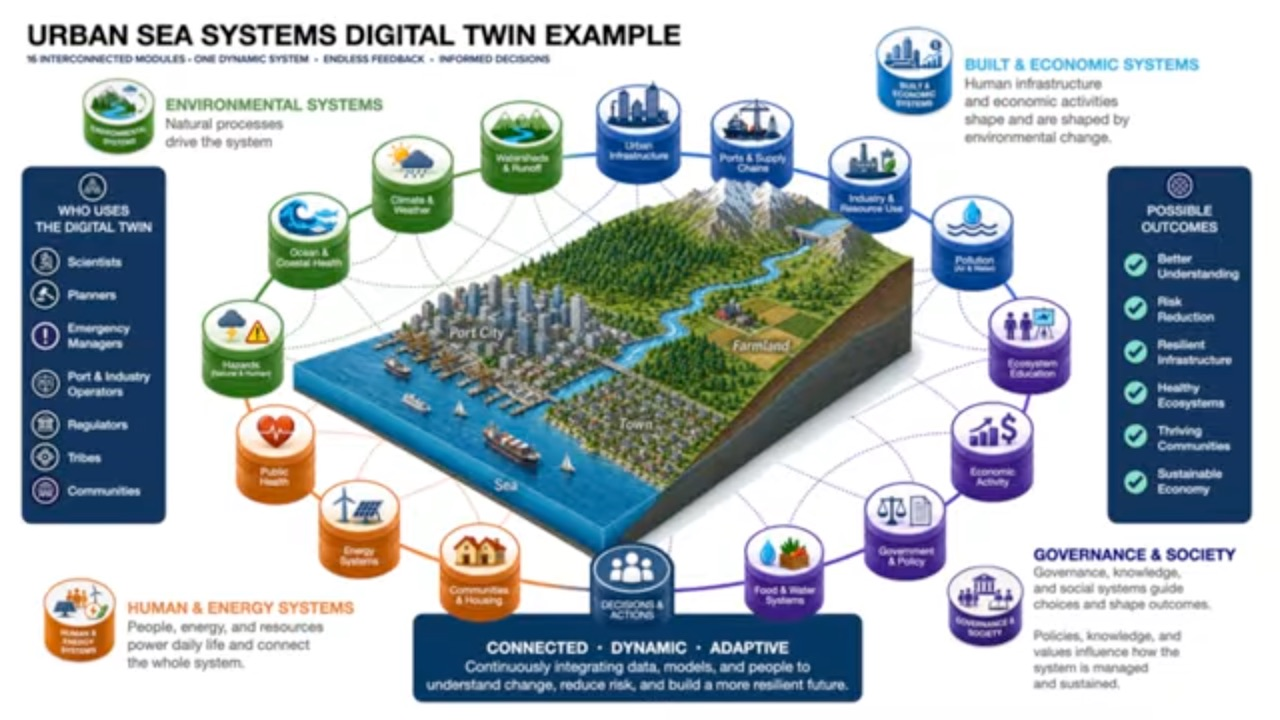
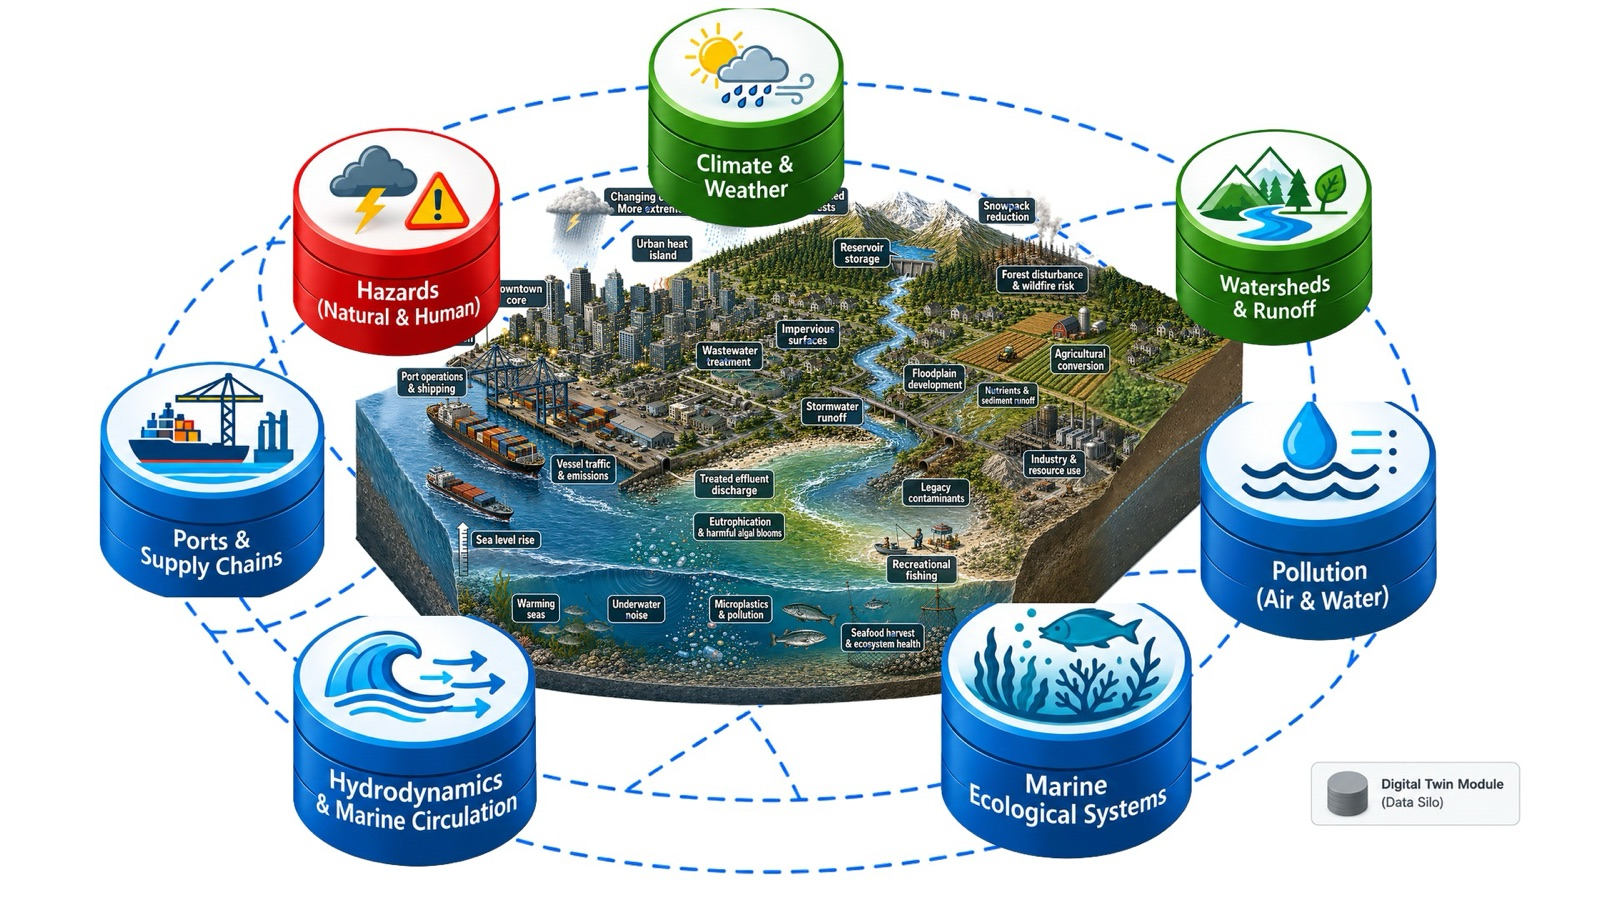
Site: video thumbnail from slide 2 of the Digital Twin deck
Sharper than the YouTube frame. Rebuilt at 1600x900 from the deck's own
image layers (scene, dashed links, module drums, legend).

diff --git a/docs/SOURCES.md b/docs/SOURCES.md
@@ -64,7 +64,9 @@ Files in `assets/img/people/`, cropped square from public profile photos.
 
 - "Urban Sea Video", J.R. Delaney, YouTube.
   <https://youtu.be/rMXZhX6DzJc>. The thumbnail
-  (`assets/img/video-urban-sea.jpg`) is the frame at 6:43.
+  (`assets/img/video-urban-sea.jpg`) is slide 2 of "Digital Twin 10-13-26
+  Presentation - HH copy" (organizers' Keynote deck), rebuilt from the deck's
+  own image layers.
 
 ## Figure registry
 
